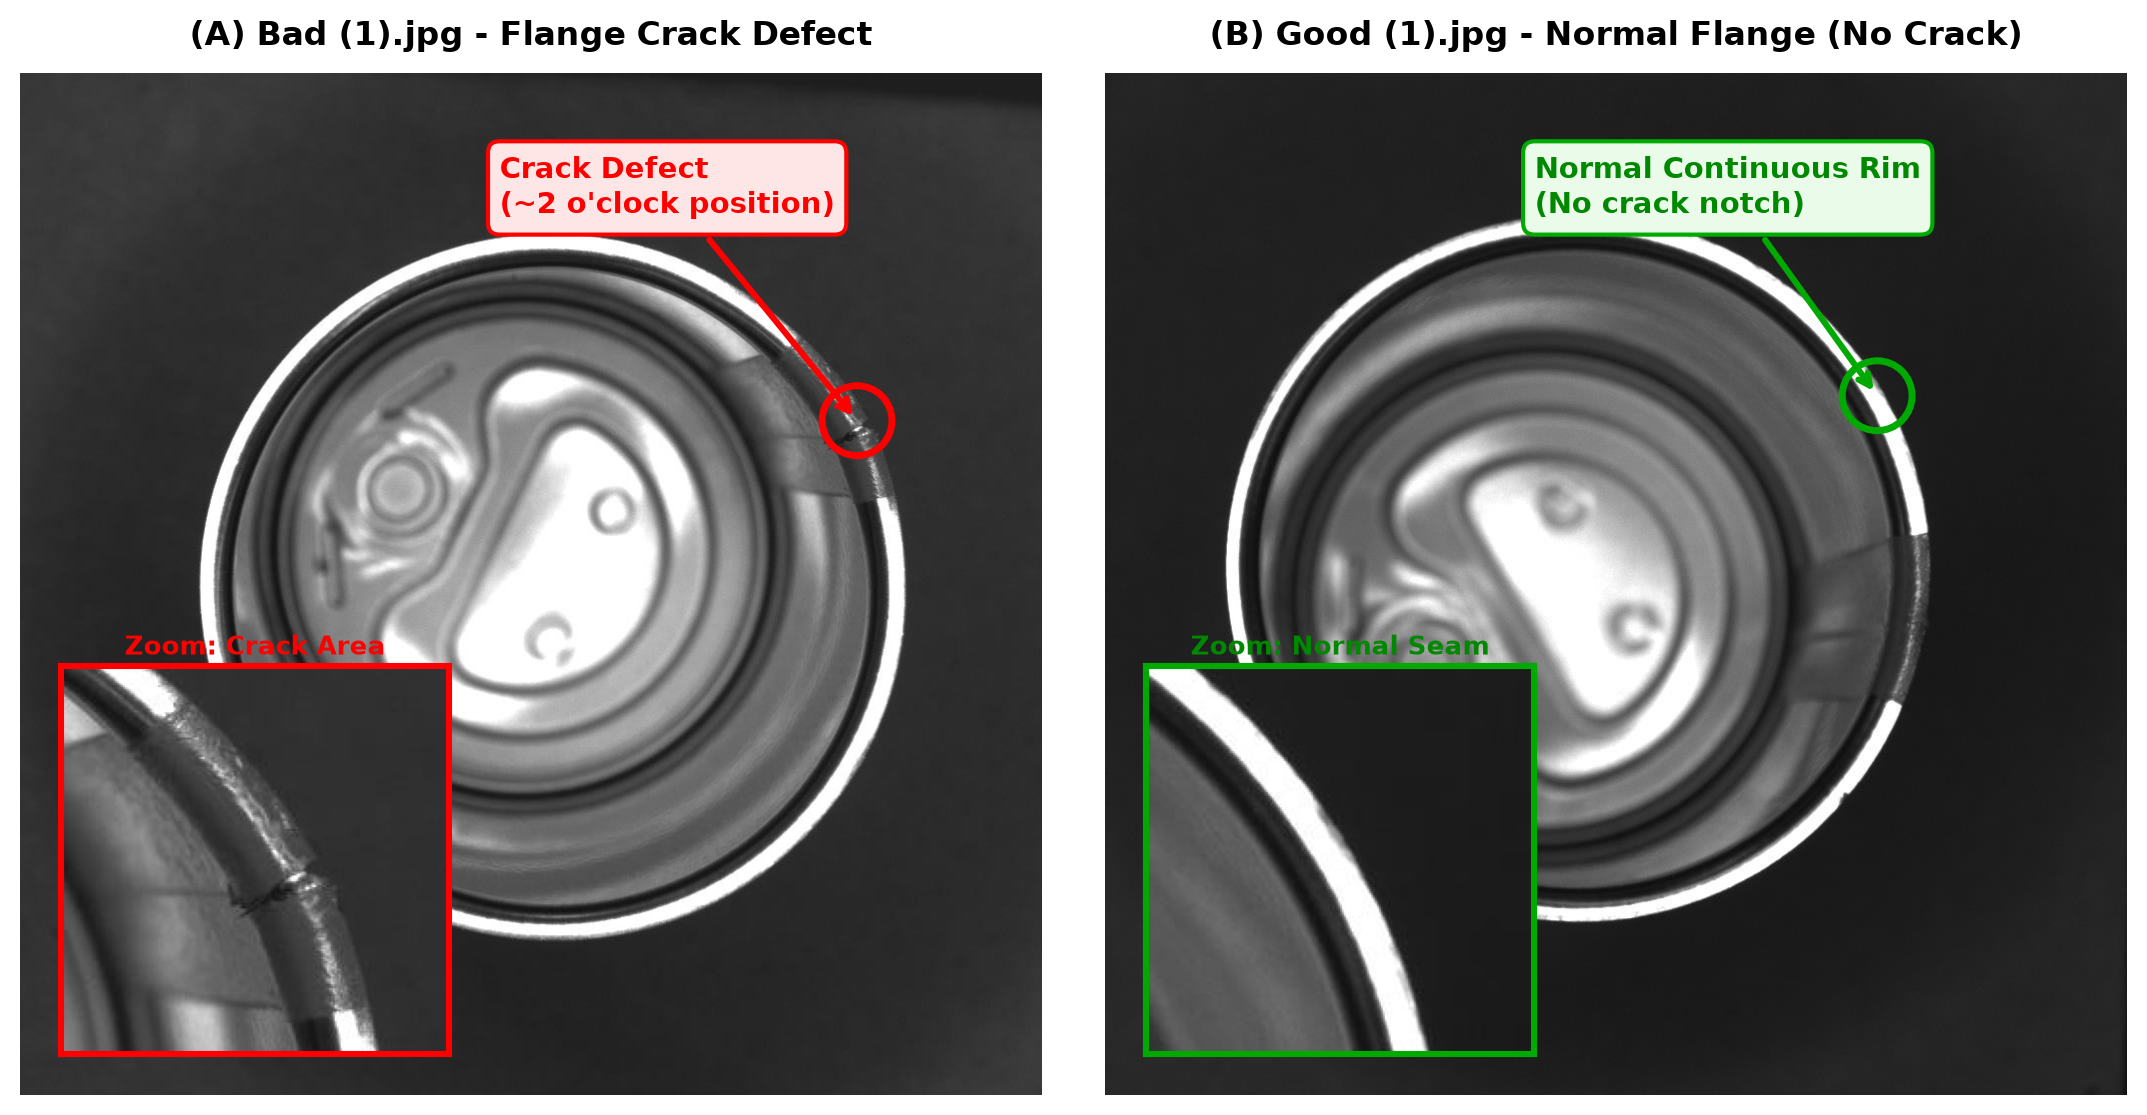
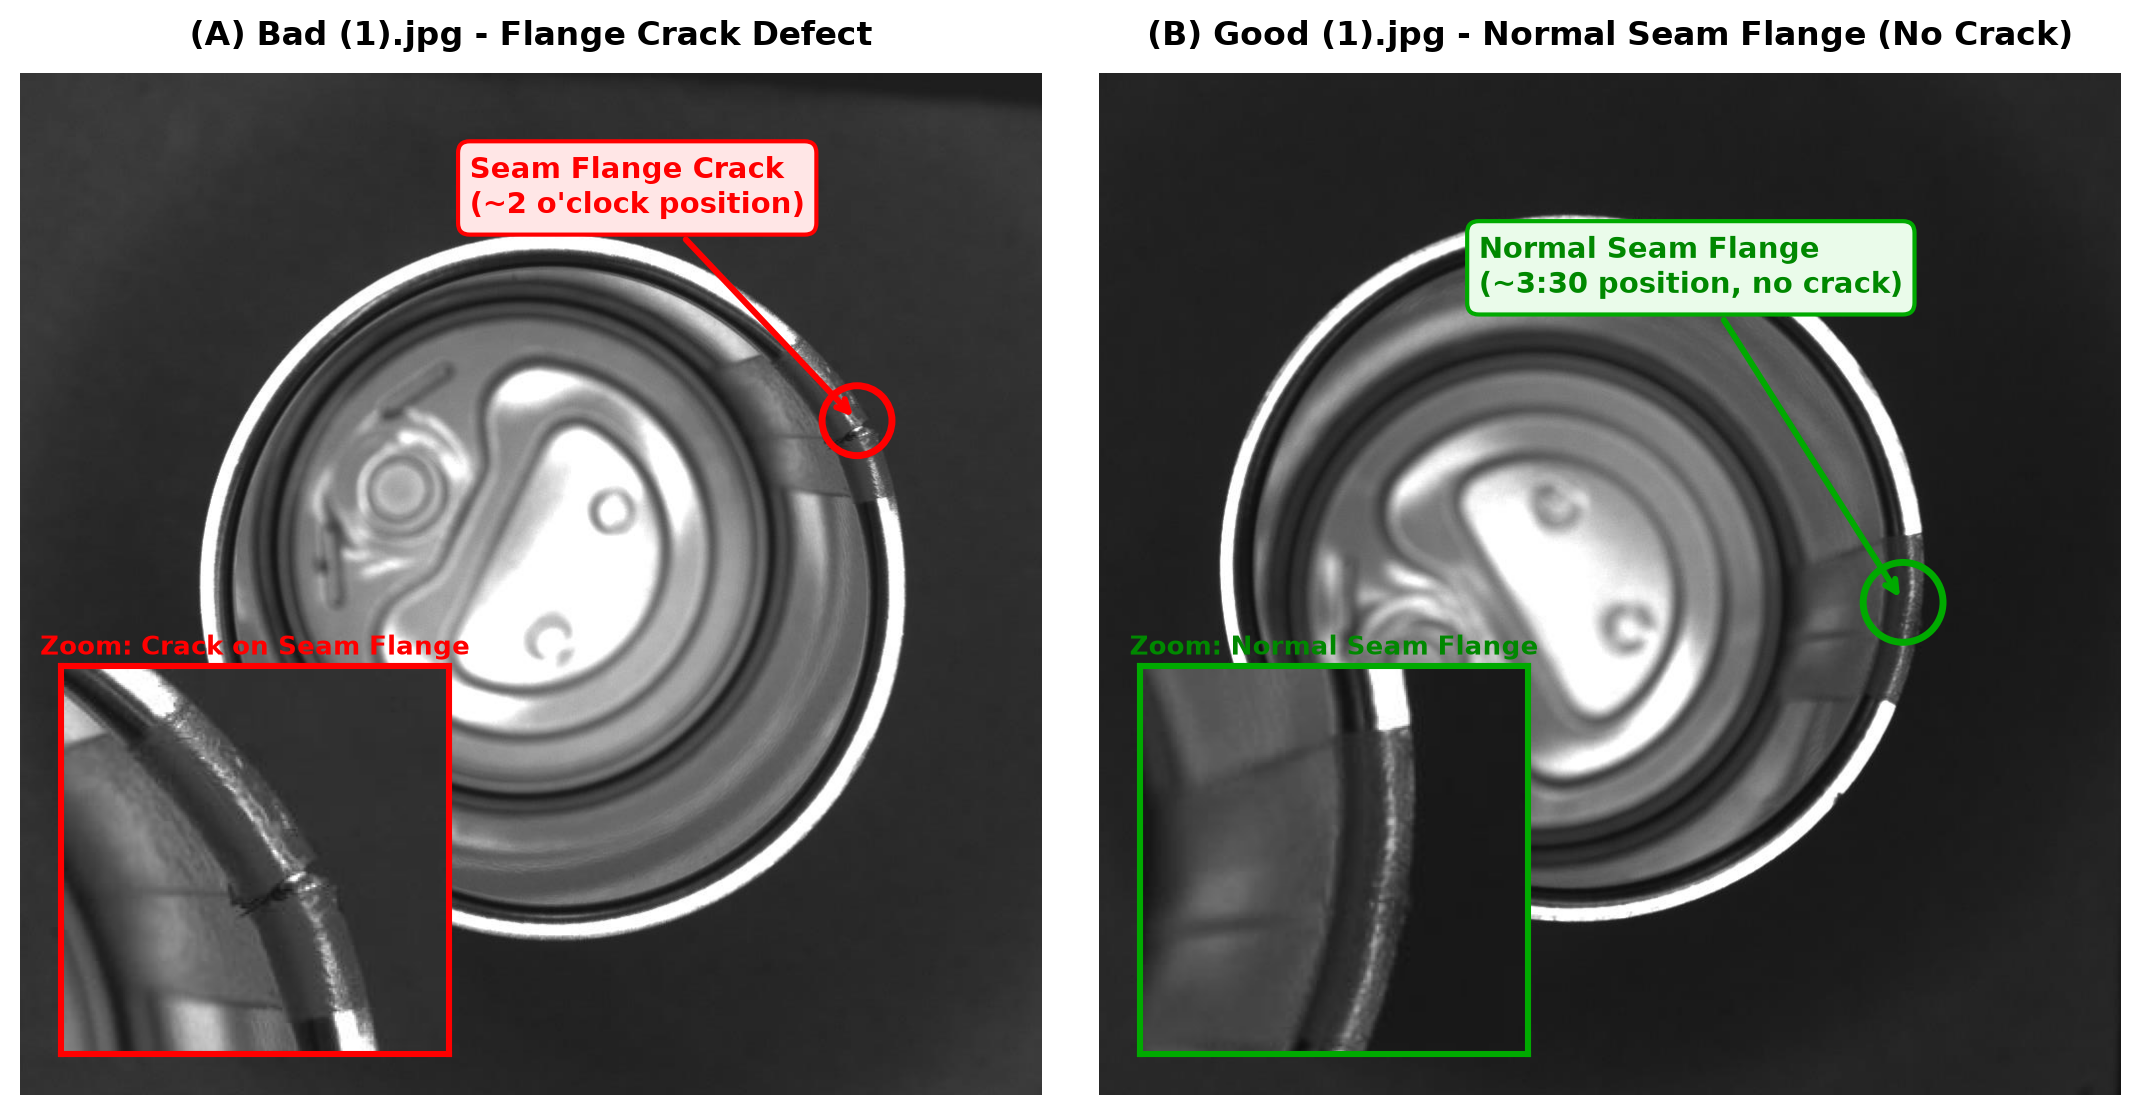
fix: accurately align Good(1) seam flange comparison at 3:30 position

diff --git a/python/generate_real_lab_assets.py b/python/generate_real_lab_assets.py
@@ -18,6 +18,8 @@ bad_can = cv2.imread(r"data\raw_cans\Bad (1).jpg")
 good_can = cv2.imread(r"data\raw_cans\Good (1).jpg")
 
 fig, axes = plt.subplots(1, 2, figsize=(11, 5.5), facecolor='white')
+
+# ----------------- (A) Bad (1).jpg -----------------
 axes[0].imshow(cv2.cvtColor(bad_can, cv2.COLOR_BGR2RGB))
 axes[0].set_title("(A) Bad (1).jpg - Flange Crack Defect", fontsize=12, fontweight='bold', pad=10)
 axes[0].axis('off')
@@ -27,8 +29,8 @@ circle_bad = plt.Circle((838, 348), 35, color='red', fill=False, lw=2.5, linesty
 axes[0].add_patch(circle_bad)
 
 # Arrow from text to defect
-axes[0].annotate("Crack Defect\n(~2 o'clock position)",
-                 xy=(838, 348), xytext=(480, 140),
+axes[0].annotate("Seam Flange Crack\n(~2 o'clock position)",
+                 xy=(838, 348), xytext=(450, 140),
                  arrowprops=dict(arrowstyle="->", color="red", lw=2.2),
                  color="red", fontweight='bold', fontsize=10.5,
                  bbox=dict(boxstyle="round,pad=0.4", fc="#ffe6e6", ec="red", lw=1.5))
@@ -42,32 +44,33 @@ axins_bad.set_yticks([])
 for spine in axins_bad.spines.values():
     spine.set_edgecolor('red')
     spine.set_linewidth(2.2)
-axins_bad.set_title("Zoom: Crack Area", fontsize=9.5, color='red', fontweight='bold', pad=4)
+axins_bad.set_title("Zoom: Crack on Seam Flange", fontsize=9.2, color='red', fontweight='bold', pad=4)
 
+# ----------------- (B) Good (1).jpg -----------------
 axes[1].imshow(cv2.cvtColor(good_can, cv2.COLOR_BGR2RGB))
-axes[1].set_title("(B) Good (1).jpg - Normal Flange (No Crack)", fontsize=12, fontweight='bold', pad=10)
+axes[1].set_title("(B) Good (1).jpg - Normal Seam Flange (No Crack)", fontsize=12, fontweight='bold', pad=10)
 axes[1].axis('off')
 
-# Circle around corresponding normal rim at (773, 323)
-circle_good = plt.Circle((773, 323), 35, color='#00aa00', fill=False, lw=2.5, linestyle='-')
+# Circle around actual side seam flange at (805, 530) (~3:30 position)
+circle_good = plt.Circle((805, 530), 40, color='#00aa00', fill=False, lw=2.5, linestyle='-')
 axes[1].add_patch(circle_good)
 
-axes[1].annotate("Normal Continuous Rim\n(No crack notch)",
-                 xy=(773, 323), xytext=(430, 140),
+axes[1].annotate("Normal Seam Flange\n(~3:30 position, no crack)",
+                 xy=(805, 530), xytext=(380, 220),
                  arrowprops=dict(arrowstyle="->", color="#00aa00", lw=2.2),
                  color="#008800", fontweight='bold', fontsize=10.5,
                  bbox=dict(boxstyle="round,pad=0.4", fc="#eafbea", ec="#00aa00", lw=1.5))
 
 # Normal seam zoom inset
 axins_good = axes[1].inset_axes([0.04, 0.04, 0.38, 0.38])
-crop_good = good_can[323-100:323+100, 773-100:773+100]
+crop_good = good_can[530-100:530+100, 805-120:805+80]
 axins_good.imshow(cv2.cvtColor(crop_good, cv2.COLOR_BGR2RGB))
 axins_good.set_xticks([])
 axins_good.set_yticks([])
 for spine in axins_good.spines.values():
     spine.set_edgecolor('#00aa00')
     spine.set_linewidth(2.2)
-axins_good.set_title("Zoom: Normal Seam", fontsize=9.5, color='#008800', fontweight='bold', pad=4)
+axins_good.set_title("Zoom: Normal Seam Flange", fontsize=9.2, color='#008800', fontweight='bold', pad=4)
 
 plt.tight_layout()
 plt.savefig("assets/lab_steps/0_raw_input_comparison.png", dpi=200, bbox_inches='tight')

diff --git a/README.md b/README.md
@@ -21,8 +21,8 @@
 
 ![Raw Input Comparison](assets/lab_steps/0_raw_input_comparison.png)
 
-* **ภาพซ้าย (A) `Bad (1).jpg` — กระป๋องที่มีรอยแตกที่ขอบฟลานจ์ (Flange Crack Defect):** มองเข้าไปในตัวกระป๋องจะเห็นฝาแบบมีห่วงดึง (Pull-tab) อยู่ด้านใน และถ้าสังเกตที่ขอบฟลานจ์ด้านบนขวา (ตำแหน่งประมาณ 2 นาฬิกา) จะเห็นรอยฉีกขาดของเนื้อโลหะอย่างชัดเจน (ดูภาพขยาย Zoom: Crack Area ที่มุมซ้ายล่าง) ซึ่งเกิดจากแรงกดและรอยพับของลูกกลิ้งซีลฝา
-* **ภาพขวา (B) `Good (1).jpg` — กระป๋องขอบปกติ (Normal Flange):** ผิวขอบโลหะรอบนอกจะเชื่อมต่อเรียบเนียนสม่ำเสมอตลอดแนวเส้นรอบวง 360 องศา (ดูภาพขยาย Zoom: Normal Seam) ไม่มีรอยแตกหรือร่องปริแยกใด ๆ ครับ
+* **ภาพซ้าย (A) `Bad (1).jpg` — กระป๋องที่มีรอยแตกที่แนวตะเข็บฟลานจ์ (Seam Flange Crack):** สังเกตที่แนวตะเข็บข้างกระป๋องด้านบนขวา (ตำแหน่งประมาณ 2 นาฬิกา) ขอบฟลานจ์โลหะจะฉีกขาดแยกออกจากกันชัดเจน (ดูภาพขยาย Zoom: Crack on Seam Flange ที่มุมซ้ายล่าง) ซึ่งเป็นจุดวิกฤตที่มักแตกจากการขึ้นรูปและซีลฝา
+* **ภาพขวา (B) `Good (1).jpg` — กระป๋องปกติที่แนวตะเข็บสมบูรณ์ (Normal Seam Flange):** แนวตะเข็บข้างกระป๋องจะอยู่ด้านขวา (ตำแหน่งประมาณ 3:30 นาฬิกา) โดยขอบฟลานจ์โลหะเชื่อมต่อสนิทเรียบเนียนตลอดแนว ไม่มีการปริแตกหรือรอยแยกใด ๆ (ดูภาพขยาย Zoom: Normal Seam Flange ที่มุมซ้ายล่าง)
 
 ---
 
